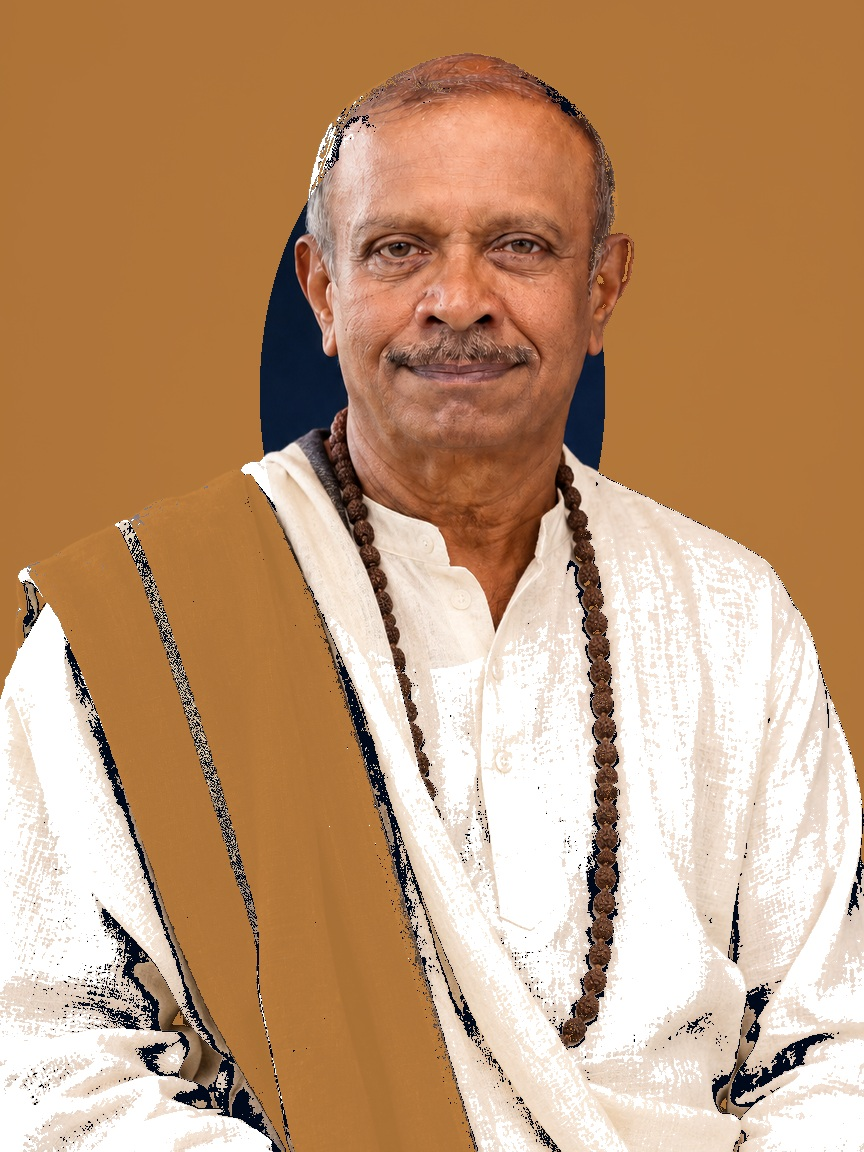
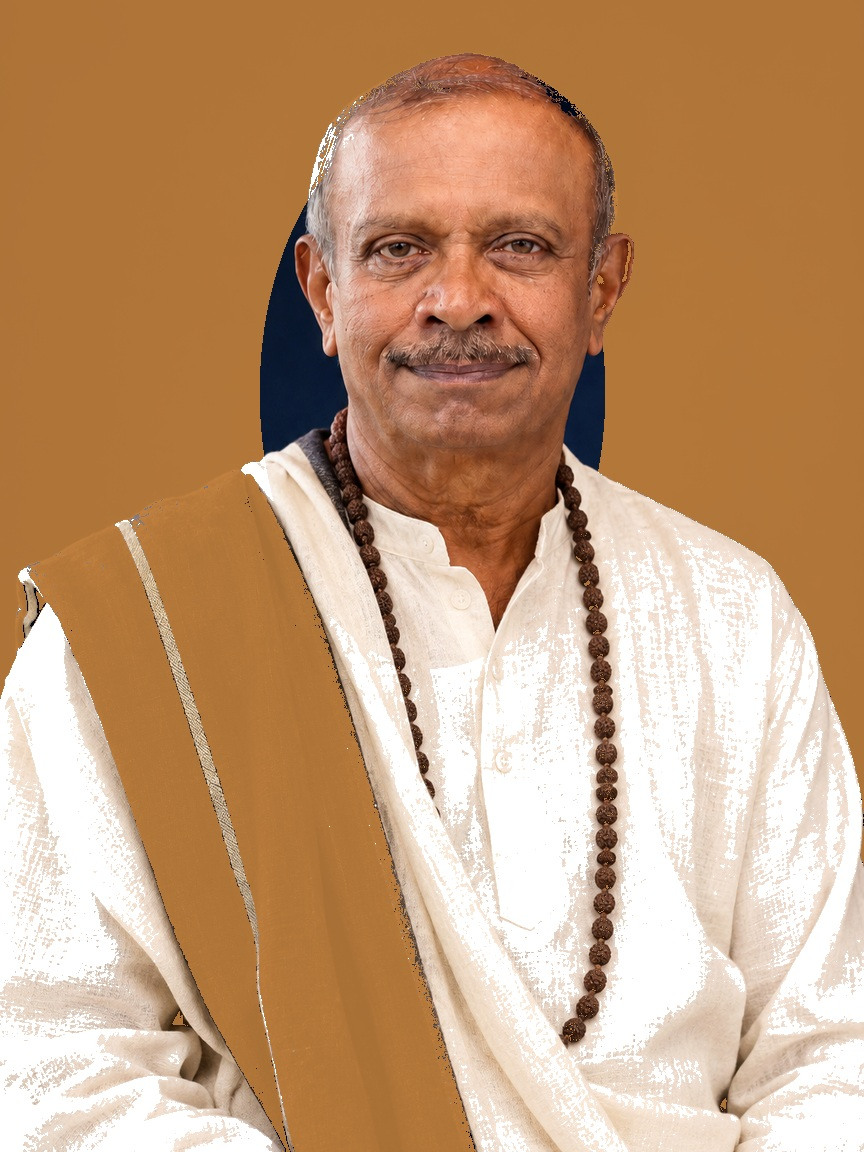
Improve founder portrait backdrop and processing safety

diff --git a/public/assets/css/vetham-cinematic.css b/public/assets/css/vetham-cinematic.css
@@ -31,6 +31,8 @@
   --vx-font-body: 'Inter', 'Poppins', system-ui, sans-serif;
   --vx-ease: cubic-bezier(0.22, 1, 0.36, 1);
   --vx-header-h: 80px;
+  --vx-content-max: 1400px;
+  --vx-gutter: clamp(16px, 3vw, 48px);
 }
 
 *, *::before, *::after { box-sizing: border-box; }
@@ -78,9 +80,10 @@ button {
 }
 
 .vx-container {
-  width: min(1120px, calc(100% - 64px));
+  width: 100%;
+  max-width: var(--vx-content-max);
   margin-inline: auto;
-  padding-inline: 8px;
+  padding-inline: var(--vx-gutter);
 }
 
 .vx-eyebrow {
@@ -225,11 +228,24 @@ button {
 }
 
 .vx-header__inner {
-  display: flex;
+  display: grid;
+  grid-template-columns: minmax(0, 1fr) auto minmax(0, 1fr);
   align-items: center;
-  justify-content: space-between;
-  gap: 24px;
+  gap: clamp(12px, 2vw, 28px);
   width: 100%;
+}
+
+.vx-header__inner > nav {
+  justify-self: center;
+  max-width: 100%;
+}
+
+.vx-header__inner > .vx-header__logo {
+  justify-self: start;
+}
+
+.vx-header__inner > .vx-header__actions {
+  justify-self: end;
 }
 
 .vx-header__logo {
@@ -270,8 +286,8 @@ button {
   display: flex;
   align-items: center;
   gap: 6px;
-  padding: 10px 14px;
-  font-size: 0.85rem;
+  padding: 10px clamp(8px, 1.1vw, 14px);
+  font-size: clamp(0.78rem, 0.9vw, 0.85rem);
   font-weight: 500;
   letter-spacing: 0.04em;
   color: var(--vx-text);
@@ -369,9 +385,9 @@ button {
 .vx-header__actions {
   display: flex;
   align-items: center;
+  justify-content: flex-end;
   gap: 12px;
   flex-shrink: 0;
-  margin-left: auto;
 }
 
 /* Full-bleed pages: white nav over hero, dark nav after scroll */
@@ -2258,10 +2274,30 @@ body.vx-inner .bg-color-1 {
   background: var(--vx-bg) !important;
 }
 
-body.vx-inner .auto-container {
-  max-width: min(1200px, 100%);
+body.vx-site .auto-container {
+  width: 100%;
+  max-width: var(--vx-content-max);
   margin: 0 auto;
-  padding: 0 clamp(16px, 4vw, 32px);
+  padding: 0 var(--vx-gutter);
+}
+
+body.vx-inner .auto-container {
+  width: 100%;
+  max-width: var(--vx-content-max);
+  margin: 0 auto;
+  padding: 0 var(--vx-gutter);
+}
+
+@media (min-width: 1600px) {
+  :root {
+    --vx-content-max: min(1520px, 94vw);
+  }
+}
+
+@media (min-width: 1920px) {
+  :root {
+    --vx-content-max: min(1680px, 92vw);
+  }
 }
 
 /* Inner pages — consistent alignment (flex rows instead of float collapse) */
@@ -3167,7 +3203,13 @@ body.vx-inner .vx-page-content > .vetham-contact-form:last-child {
   .vx-header__toggle { display: flex; align-items: center; justify-content: center; }
 
   .vx-header__inner {
+    display: flex;
+    justify-content: space-between;
     gap: 10px;
+  }
+
+  .vx-header__inner > nav {
+    display: none;
   }
 
   .vx-header__logo {
@@ -3189,8 +3231,7 @@ body.vx-inner .vx-page-content > .vetham-contact-form:last-child {
   .vx-gallery__item--sq { grid-column: span 12; }
 
   .vx-container {
-    width: min(1120px, calc(100% - 24px));
-    padding-inline: 12px;
+    padding-inline: 16px;
   }
 
   .vx-header__logo img {

diff --git a/src/config/images.js b/src/config/images.js
@@ -114,7 +114,7 @@ const catalog = {
   sidebarPost3: [`${V}/sidebar-post-3.jpg`],
 };
 
-const VETHAM_ASSET_VERSION = 'founders-yellow-uniform-v7';
+const VETHAM_ASSET_VERSION = 'founders-reference-photos-v8';
 
 export function img(key) {
   const entry = catalog[key];

diff --git a/scripts/process-founder-portraits.py b/scripts/process-founder-portraits.py
@@ -142,7 +142,7 @@ def to_uniform(im: Image.Image) -> Image.Image:
     for y in range(h):
         for x in range(w):
             r, g, b = px[x, y]
-            if is_yellow_thundu(r, g, b) or is_beads(r, g, b):
+            if is_yellow_thundu(r, g, b) or is_beads(r, g, b) or is_skin(r, g, b):
                 continue
             if in_face(x, y, w, h) or (r > 235 and g > 235 and b > 230):
                 continue
@@ -159,10 +159,12 @@ def is_yellow_thundu(r: int, g: int, b: int) -> bool:
 
 
 def is_studio_backdrop(r: int, g: int, b: int) -> bool:
-    h, s, v = colorsys.rgb_to_hsv(r / 255, g / 255, b / 255)
-    if v < 0.42:
+    hsv_h, s, v = colorsys.rgb_to_hsv(r / 255, g / 255, b / 255)
+    if v < 0.36:
         return True
-    if 0.04 < h < 0.14 and s < 0.45 and 0.3 < v < 0.82:
+    if b > r + 6 and v < 0.42:
+        return True
+    if 0.05 < hsv_h < 0.13 and 0.12 < s < 0.55 and 0.34 < v < 0.88:
         return True
     return False
 
